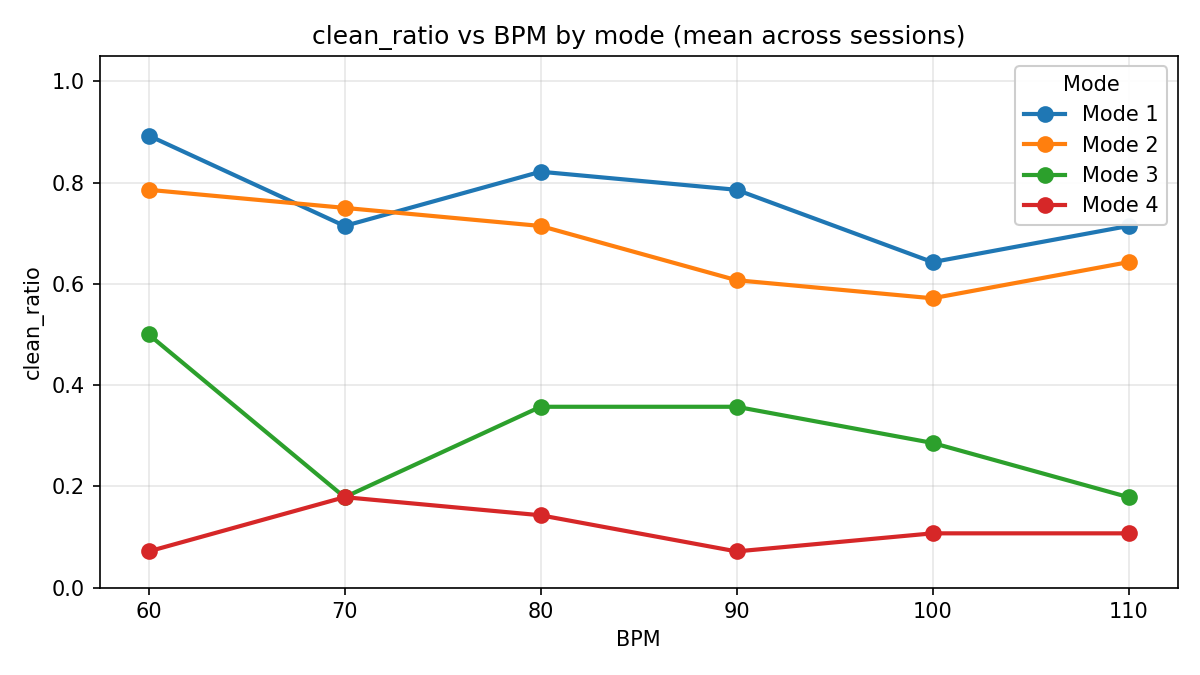
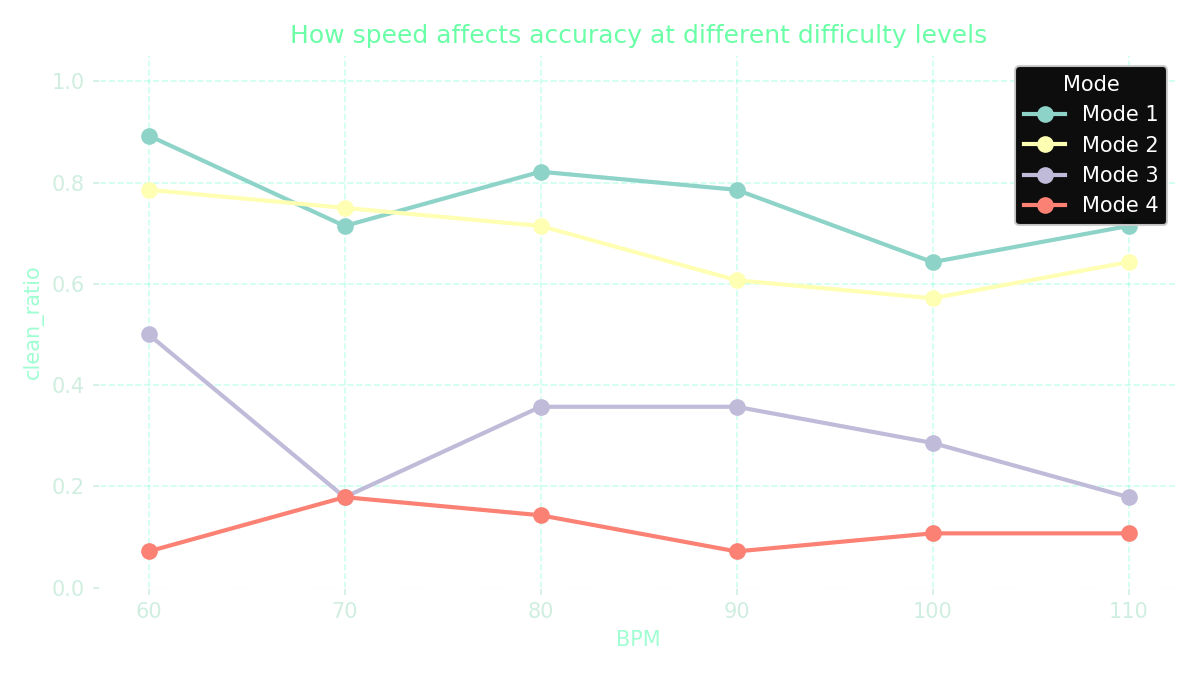
Improve chart readability and titles

diff --git a/src/components/Factors.jsx b/src/components/Factors.jsx
@@ -38,7 +38,9 @@ export default function Factors() {
         regardless of repetition.
       </p>
       <div className="chart-card">
-        <h3 className="chart-title">clean_ratio vs BPM by mode</h3>
+        <h3 className="chart-title">
+          How speed affects accuracy at different difficulty levels
+        </h3>
         <div className="chart-container">
           <img
             className="chart-image"
@@ -49,7 +51,7 @@ export default function Factors() {
         </div>
       </div>
       <div className="chart-card">
-        <h3 className="chart-title">Maximum BPM meeting clean_ratio ≥ 0.75</h3>
+        <h3 className="chart-title">Highest speed I could maintain accuracy</h3>
         <div className="chart-container">
           <img
             className="chart-image"

diff --git a/src/components/Outcome.jsx b/src/components/Outcome.jsx
@@ -38,7 +38,7 @@ export default function Outcome() {
         uneven and condition-dependent learning can be.
       </p>
       <div className="chart-card">
-        <h3 className="chart-title">Learning progression over sessions</h3>
+        <h3 className="chart-title">How my performance improved over time</h3>
         <div className="chart-container">
           <img
             className="chart-image"
